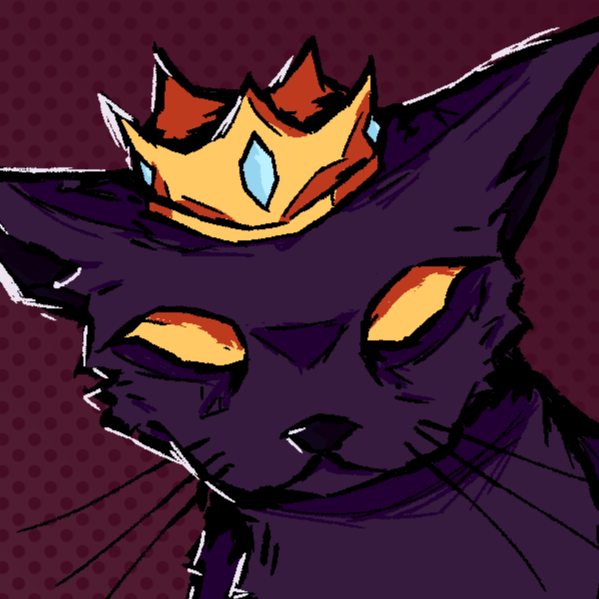
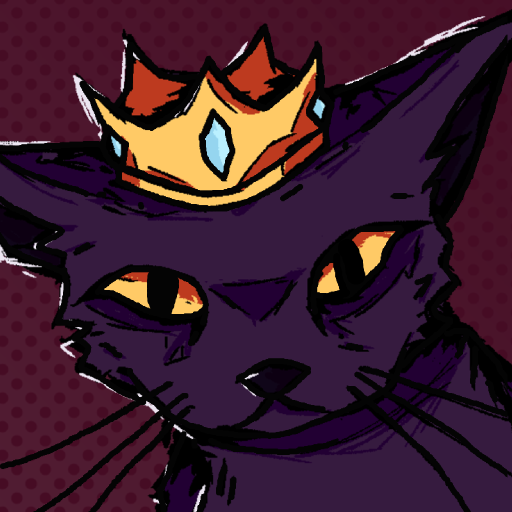
update main page

diff --git a/index.html b/index.html
@@ -184,16 +184,28 @@
         <div class="staff-track-wrap reveal from-right" style="transition-delay:0.1s;">
           <div class="staff-track" id="staffTrack">
             <div class="staff-card">
+              <img src="./images/staff/flypuff.png" alt="Flypuff" class="staff-pfp"/>
+              <div class="staff-role">Owner</div>
+              <div class="staff-name">Flypuff</div>
+              <div class="staff-desc">"You're demoted to builder"</div>
+            </div>
+            <div class="staff-card">
               <img src="./images/staff/jocote.png" alt="Jocote" class="staff-pfp"/>
               <div class="staff-role">Founder</div>
               <div class="staff-name">Jocote</div>
               <div class="staff-desc">Emberfall's Founder & CEO. Does a lot of stuff, but enjoys hosting events and making Minecraft maps. Favourite music disc is stall.</div>
             </div>
             <div class="staff-card">
+              <img src="./images/staff/spaxxv.png" alt="SpaxxV" class="staff-pfp"/>
+              <div class="staff-role">Head Admin</div>
+              <div class="staff-name">SpaxxV</div>
+              <div class="staff-desc">Emberfall's lead developer. Locks in, but only sometimes.</div>
+            </div>
+            <div class="staff-card">
               <img src="./images/staff/spocxii.gif" alt="Spocxii" class="staff-pfp"/>
               <div class="staff-role">Head Admin</div>
               <div class="staff-name">Spocxii</div>
-              <div class="staff-desc">Emberfall's official composer and advisor. Also works as Jocote's personal autocorrect. Possibly Jocote's #1 hater.</div>
+              <div class="staff-desc">Emberfall's official composer and CatGPT. Possibly the WORST PvPer on the staff team.</div>
             </div>
             <div class="staff-card">
               <img src="./images/staff/endo.png" alt="Endo" class="staff-pfp"/>
@@ -202,16 +214,10 @@
               <div class="staff-desc">Emberfalls first head admin, has worked on every event. Staffing and building the maps. Main builder on the trailers. Likes to stay in offline mode.</div>
             </div>
             <div class="staff-card">
-              <img src="./images/staff/spaxxv.png" alt="SpaxxV" class="staff-pfp"/>
-              <div class="staff-role">Developer</div>
-              <div class="staff-name">SpaxxV</div>
-              <div class="staff-desc">Emberfall's developer who programs anything we need. Also makes music and art. Has a 25:01 RSG personal best. Cat enjoyer.</div>
-            </div>
-            <div class="staff-card">
-              <img src="./images/staff/flypuff.gif" alt="Flypuff" class="staff-pfp"/>
-              <div class="staff-role">Gamenight Hoster</div>
-              <div class="staff-name">Flypuff</div>
-              <div class="staff-desc">Emberfall's very first gamenight host! Joined the team recently, and is now working hard to improve Emberfall!!</div>
+              <img src="./images/staff/madarch.png" alt="Madarch" class="staff-pfp"/>
+              <div class="staff-role">Admin</div>
+              <div class="staff-name">Madarch</div>
+              <div class="staff-desc">Emberfall's beloathed google doc writer, staff member, and freakiest cat. People call them the 0.3 demon.</div>
             </div>
             <div class="staff-card">
               <img src="./images/staff/pipsqueak.png" alt="Pipsqueak" class="staff-pfp"/>
@@ -229,13 +235,7 @@
               <img src="./images/staff/menuhart.png" alt="Menuhart" class="staff-pfp"/>
               <div class="staff-role">Admin</div>
               <div class="staff-name">Menuhart</div>
-              <div class="staff-desc">Dresses up in maid outfits or as Dr. House</div>
-            </div>
-            <div class="staff-card">
-              <img src="./images/staff/spotsthejaguar.png" alt="SpotsTheJaguar" class="staff-pfp"/>
-              <div class="staff-role">Admin</div>
-              <div class="staff-name">SpotsTheJaguar</div>
-              <div class="staff-desc">Emberfalls Worst Admin, but good at coding and using Minecraft commands. I'll try and do whatever is needed of me. I also like Speedrunning, cats, and D&D.</div>
+              <div class="staff-desc">You also might know me as: menuhart, The Big M, Ares, Dr. House, Lebron James, and menufarticus looksmaximus</div>
             </div>
             <div class="staff-card">
               <img src="./images/staff/super.png" alt="Super" class="staff-pfp"/>
@@ -248,6 +248,30 @@
               <div class="staff-role">Admin</div>
               <div class="staff-name">Bielsinho_of</div>
               <div class="staff-desc">who is he</div>
+            </div>
+            <div class="staff-card">
+              <img src="./images/staff/astrid.png" alt="Astrid" class="staff-pfp"/>
+              <div class="staff-role">Trial Admin</div>
+              <div class="staff-name">Astrid</div>
+              <div class="staff-desc">Constantly both scared and a Minecraft nerd. Frequently asks, "who would even join emberfall staff team?"</div>
+            </div>
+            <div class="staff-card">
+              <img src="./images/staff/daturkey2.png" alt="Daturkey2" class="staff-pfp"/>
+              <div class="staff-role">Trial Admin</div>
+              <div class="staff-name">Daturkey2</div>
+              <div class="staff-desc">Emberfalls local quick drop. I have a wife though.</div>
+            </div>
+            <div class="staff-card">
+              <img src="./images/staff/kotori_ishimoto.png" alt="Kotori Ishimoto" class="staff-pfp"/>
+              <div class="staff-role">Trial Admin</div>
+              <div class="staff-name">Kotori Ishimoto</div>
+              <div class="staff-desc">The REAL Emberfall quick drop, goat sound extraordinaire, here to help however I can!</div>
+            </div>
+            <div class="staff-card">
+              <img src="./images/staff/capi.png" alt="Capi" class="staff-pfp"/>
+              <div class="staff-role">Trial Admin</div>
+              <div class="staff-name">Capi</div>
+              <div class="staff-desc">Known as Capi in most places. I'm a writer who loves to play Minecraft and enjoys gastronomy. I suck at pvp but I can build (sometimes).</div>
             </div>
           </div>
         </div>  
